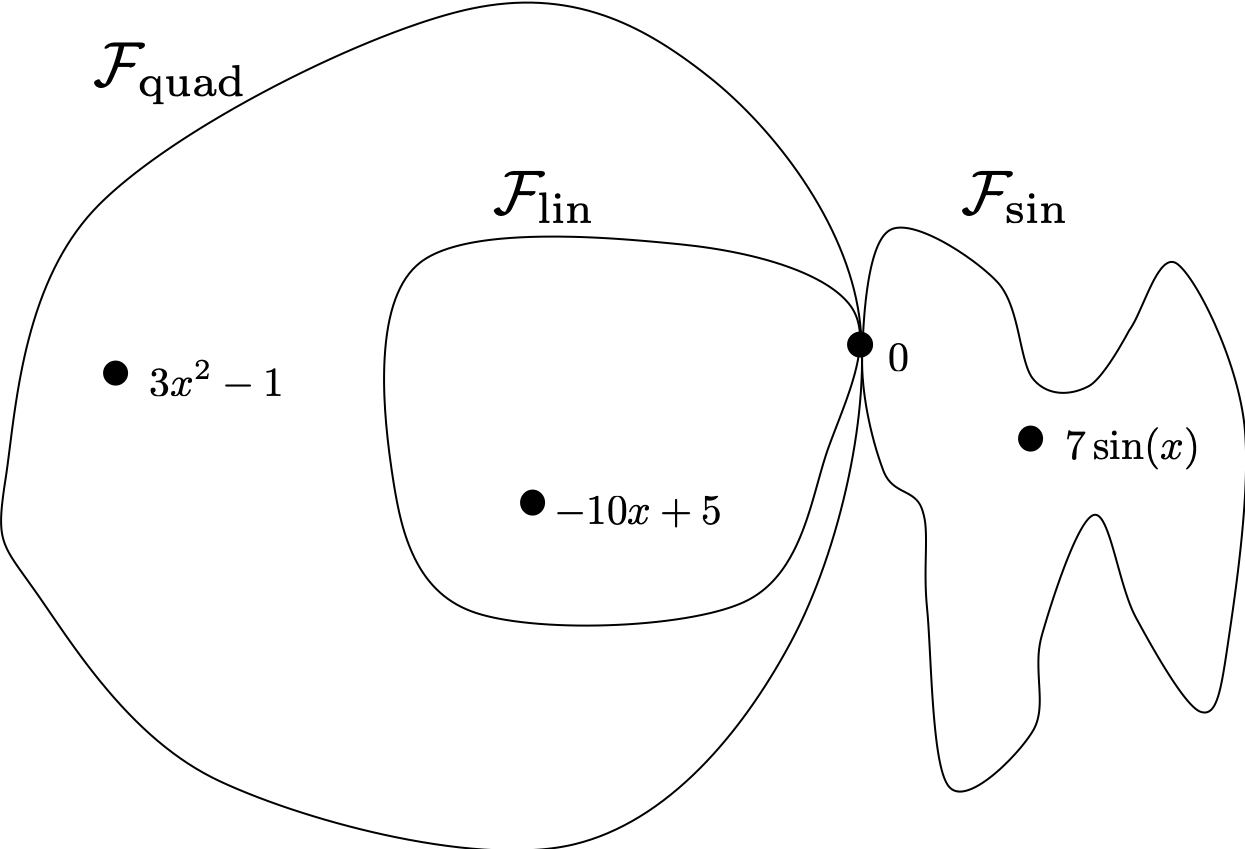
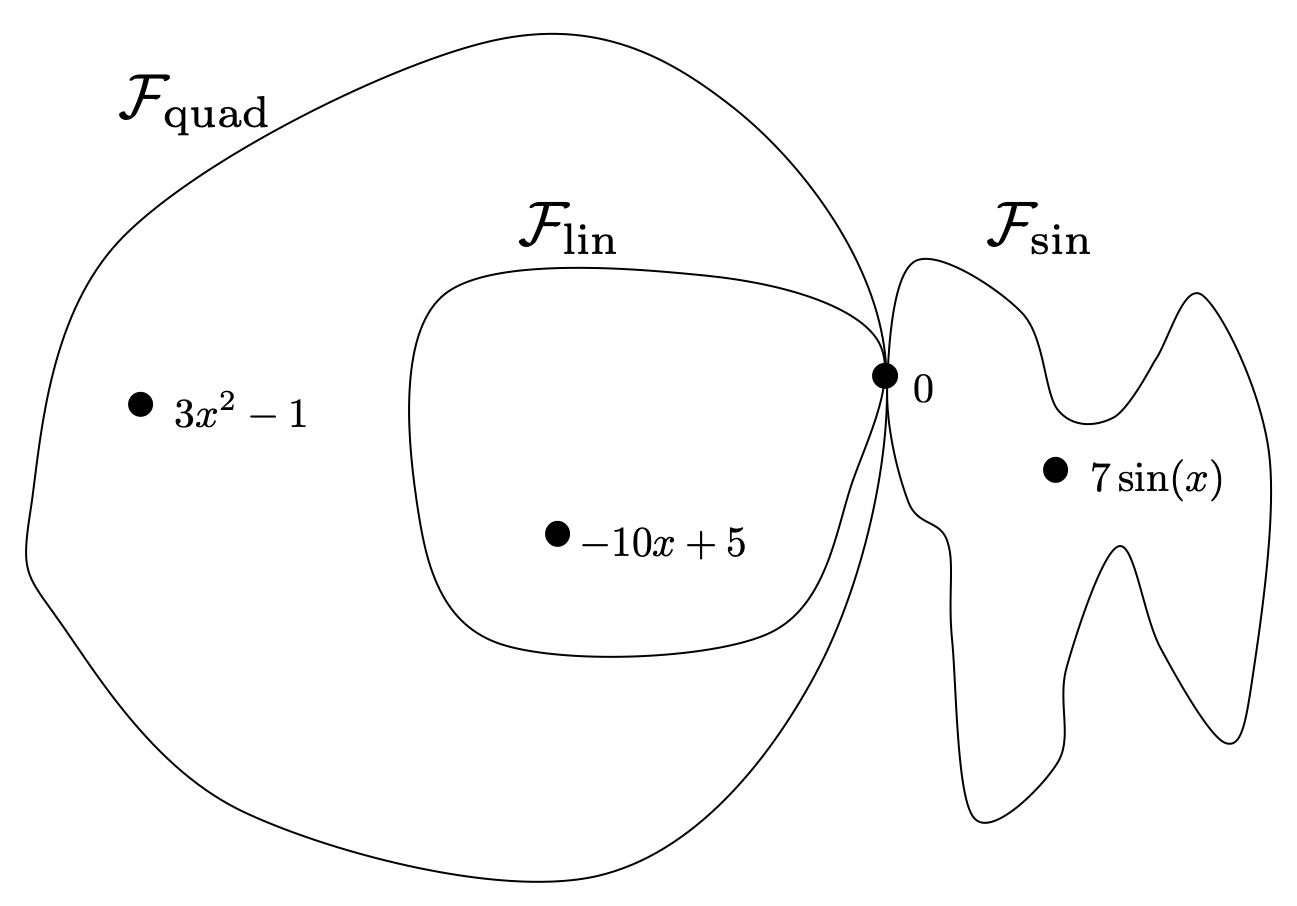
mod space pic

diff --git a/_build/model-eval/model-eval.html b/_build/model-eval/model-eval.html
@@ -11,7 +11,7 @@ prev_page:
 next_page:
   url: 
 suffix: .ipynb
-search: f mathcal error model data training test s generalization e y dagger x set our hat fit t br possible using not well evaluation because metric n future function space its estimate mathbb models since also point size tr lets random png same src width best better only errors get between gen much distance m why loss likely performance average linear good where smaller around want any code instead problem observed even evaluate problems case sum happens points tdimg td k actually isnt regression think used cross just frac cant thats approximation px sets distribution functions generating end dont less
+search: f mathcal error model data training test s e generalization y x dagger our set hat fit not t br possible using well evaluation because models metric function n space future its since also point estimate mathbb size tr lets only random png same between linear src width best better errors get gen much distance m any why loss likely performance average text good where smaller around want code instead problem observed even evaluate problems case just sum happens points tdimg td k actually isnt regression think used cross frac yi cant thats approximation px sets distribution functions generating end
 
 comment: "***PROGRAMMATICALLY GENERATED, DO NOT EDIT. SEE ORIGINAL FILES IN /content***"
 ---
@@ -2154,7 +2154,8 @@ Let's say we generate a training and test set from this data-generating process,
 <div class="text_cell_render border-box-sizing rendered_html">
 <p>Besides the relative sizes of the training and test sets, we also have control over one very important thing: the model space we choose to use!</p>
 <p>The model space, as you may recall, is the space of functions that we consider "elligible" to be our model. For instance, we may decide that we only want to consider <em>linear</em> models, which is the choice we're making when we opt to do linear regression. Why would we ever hobble ourselves in this way? Well, because we have to search that space of models if we want to find the model within it that best fits the data, and searching through the space of all possible functions $\mathbb F$ just isn't possible.</p>
-<p>So we're stuck working with <em>some</em> model space, but clearly there are different kinds of model spaces we can choose. For instance, instead of linear models like $\hat y_i = bx_i + a$, we could consider quadratic models of the form $\hat y_i = cx_i^2 + bx_i + a$, or perhaps sinusoidal models like $a\sin(bx)$. Let's call these spaces $\mathcal F_{lin}$, $\mathcal F_{quad}$, and $\mathcal F_{sin}$, respectively. How do these spaces relate to each other?</p>
+<p>So we're stuck working with <em>some</em> model space, but clearly there are different kinds of model spaces we can choose. For instance, instead of linear models like $\hat y_i = bx_i + a$, we could consider quadratic models of the form $\hat y_i = cx_i^2 + bx_i + a$, or perhaps sinusoidal models like $\alpha\sin(\beta x)$. Let's call these spaces $\mathcal F_{\text{lin}}$, $\mathcal F_{\text{quad}}$, and $\mathcal F_{\text{sin}}$, respectively. How do these spaces relate to each other?</p>
+<p>Any linear model $\hat y_i = bx_i + a$ is also a quadratic model: $\hat y_i = 0x^2 + bx_i + a$. That means that $\mathcal F_{\text{lin}} \subset \mathcal F_{\text{quad}}$ (linear models are a subset of quadratic models). The subsettting is strict since there are some quadratic models, e.g. $x^2$ which are not linear models. What about the relationship between sinusoidal and quadratic models? Given a sinusoidal function $\alpha\sin(\beta x)$, the only parameters $(\alpha, \beta)$ and $(a,b,c)$ for which $\alpha\sin(\beta x) = cx^2 + bx_i + a$ are when all the parameters are 0. Thus the only point of intersection between $\mathcal F_{\text{quad}}$ and $\mathcal F_{\text{sin}}$ is $f(x) = 0$. This is also a point inside of $\mathcal F_{\text{lin}}$ since $0 = 0x + 0$. So overall our picture looks something like:</p>
 
 </div>
 </div>
@@ -2166,6 +2167,17 @@ Let's say we generate a training and test set from this data-generating process,
 <div class="cell border-box-sizing text_cell rendered"><div class="inner_cell">
 <div class="text_cell_render border-box-sizing rendered_html">
 <p><img src='mod-spaces.png' width=300></p>
+
+</div>
+</div>
+</div>
+</div>
+
+<div class="jb_cell tag_popout">
+
+<div class="cell border-box-sizing text_cell rendered"><div class="inner_cell">
+<div class="text_cell_render border-box-sizing rendered_html">
+<p>The exact shapes of these different model spaces as I've drawn them are not reflective of any particular properties of the space. They're just squiggles.</p>
 
 </div>
 </div>

diff --git a/docs/model-eval/model-eval.html b/docs/model-eval/model-eval.html
@@ -26,8 +26,8 @@
   "@type": "NewsArticle",
   "mainEntityOfPage": "https://alejandroschuler.github.io/CSL/model-eval/model-eval.html",
   "headline": "Model Evaluation",
-  "datePublished": "2020-03-04T11:36:05-08:00",
-  "dateModified": "2020-03-04T11:36:05-08:00",
+  "datePublished": "2020-03-04T12:56:40-08:00",
+  "dateModified": "2020-03-04T12:56:40-08:00",
   "description": "        Model Evaluation    At the end of the day, we're looking for a model that will help us predict accurately in the future. So the best way to evaluate ...",
   "author": {
     "@type": "Person",
@@ -2920,7 +2920,8 @@ Let's say we generate a training and test set from this data-generating process,
 <div class="text_cell_render border-box-sizing rendered_html">
 <p>Besides the relative sizes of the training and test sets, we also have control over one very important thing: the model space we choose to use!</p>
 <p>The model space, as you may recall, is the space of functions that we consider "elligible" to be our model. For instance, we may decide that we only want to consider <em>linear</em> models, which is the choice we're making when we opt to do linear regression. Why would we ever hobble ourselves in this way? Well, because we have to search that space of models if we want to find the model within it that best fits the data, and searching through the space of all possible functions $\mathbb F$ just isn't possible.</p>
-<p>So we're stuck working with <em>some</em> model space, but clearly there are different kinds of model spaces we can choose. For instance, instead of linear models like $\hat y_i = bx_i + a$, we could consider quadratic models of the form $\hat y_i = cx_i^2 + bx_i + a$, or perhaps sinusoidal models like $a\sin(bx)$. Let's call these spaces $\mathcal F_{lin}$, $\mathcal F_{quad}$, and $\mathcal F_{sin}$, respectively. How do these spaces relate to each other?</p>
+<p>So we're stuck working with <em>some</em> model space, but clearly there are different kinds of model spaces we can choose. For instance, instead of linear models like $\hat y_i = bx_i + a$, we could consider quadratic models of the form $\hat y_i = cx_i^2 + bx_i + a$, or perhaps sinusoidal models like $\alpha\sin(\beta x)$. Let's call these spaces $\mathcal F_{\text{lin}}$, $\mathcal F_{\text{quad}}$, and $\mathcal F_{\text{sin}}$, respectively. How do these spaces relate to each other?</p>
+<p>Any linear model $\hat y_i = bx_i + a$ is also a quadratic model: $\hat y_i = 0x^2 + bx_i + a$. That means that $\mathcal F_{\text{lin}} \subset \mathcal F_{\text{quad}}$ (linear models are a subset of quadratic models). The subsettting is strict since there are some quadratic models, e.g. $x^2$ which are not linear models. What about the relationship between sinusoidal and quadratic models? Given a sinusoidal function $\alpha\sin(\beta x)$, the only parameters $(\alpha, \beta)$ and $(a,b,c)$ for which $\alpha\sin(\beta x) = cx^2 + bx_i + a$ are when all the parameters are 0. Thus the only point of intersection between $\mathcal F_{\text{quad}}$ and $\mathcal F_{\text{sin}}$ is $f(x) = 0$. This is also a point inside of $\mathcal F_{\text{lin}}$ since $0 = 0x + 0$. So overall our picture looks something like:</p>
 
 </div>
 </div>
@@ -2932,6 +2933,17 @@ Let's say we generate a training and test set from this data-generating process,
 <div class="cell border-box-sizing text_cell rendered"><div class="inner_cell">
 <div class="text_cell_render border-box-sizing rendered_html">
 <p><img src='mod-spaces.png' width=300></p>
+
+</div>
+</div>
+</div>
+</div>
+
+<div class="jb_cell tag_popout">
+
+<div class="cell border-box-sizing text_cell rendered"><div class="inner_cell">
+<div class="text_cell_render border-box-sizing rendered_html">
+<p>The exact shapes of these different model spaces as I've drawn them are not reflective of any particular properties of the space. They're just squiggles.</p>
 
 </div>
 </div>

diff --git a/docs/search.html b/docs/search.html
@@ -26,8 +26,8 @@
   "@type": "NewsArticle",
   "mainEntityOfPage": "https://alejandroschuler.github.io/CSL/search",
   "headline": "Search the site",
-  "datePublished": "2020-03-04T11:36:05-08:00",
-  "dateModified": "2020-03-04T11:36:05-08:00",
+  "datePublished": "2020-03-04T12:56:40-08:00",
+  "dateModified": "2020-03-04T12:56:40-08:00",
   "description": "        ",
   "author": {
     "@type": "Person",
@@ -831,7 +831,7 @@ initFunction(initPrint)
         "teaser":null},{
         "title": "Model Evaluation",
         
-        "excerpt": "f mathcal error model data training test s generalization e y dagger x set our hat fit t br possible using not well evaluation because metric n future function space its estimate mathbb models since also point size tr lets random png same src width best better only errors get between gen much distance m why loss likely performance average linear good where smaller around want any code instead problem observed even evaluate problems case sum happens points tdimg td k actually isnt regression think used cross just frac cant thats approximation px sets distribution functions generating end dont less",
+        "excerpt": "f mathcal error model data training test s e generalization y x dagger our set hat fit not t br possible using well evaluation because models metric function n space future its since also point estimate mathbb size tr lets only random png same between linear src width best better errors get gen much distance m any why loss likely performance average text good where smaller around want code instead problem observed even evaluate problems case just sum happens points tdimg td k actually isnt regression think used cross frac yi cant thats approximation px sets distribution functions generating end",
         "categories": [],
         "tags": [],
         "url": "https://alejandroschuler.github.io/CSL/model-eval/model-eval.html",

diff --git a/docs/linreg-dl-torch/intro.html b/docs/linreg-dl-torch/intro.html
@@ -26,8 +26,8 @@
   "@type": "NewsArticle",
   "mainEntityOfPage": "https://alejandroschuler.github.io/CSL/linreg-dl-torch/intro.html",
   "headline": "From Linear Regression to Deep Learning in Pytorch",
-  "datePublished": "2020-03-04T11:36:05-08:00",
-  "dateModified": "2020-03-04T11:36:05-08:00",
+  "datePublished": "2020-03-04T12:56:40-08:00",
+  "dateModified": "2020-03-04T12:56:40-08:00",
   "description": "        From Linear Regression to Deep Learning in Pytorch    In this chapter we'll see how to build supervised learning models of seemingly arbitrary comple...",
   "author": {
     "@type": "Person",

diff --git a/docs/grad-descent/grad-descent.html b/docs/grad-descent/grad-descent.html
@@ -26,8 +26,8 @@
   "@type": "NewsArticle",
   "mainEntityOfPage": "https://alejandroschuler.github.io/CSL/grad-descent/grad-descent.html",
   "headline": "Fitting Models with Gradient Descent",
-  "datePublished": "2020-03-04T11:36:05-08:00",
-  "dateModified": "2020-03-04T11:36:05-08:00",
+  "datePublished": "2020-03-04T12:56:40-08:00",
+  "dateModified": "2020-03-04T12:56:40-08:00",
   "description": "        Fitting Models with Gradient Descent    Gradient descent and its cousins are the core of many machine learning methods. Building a predictive model b...",
   "author": {
     "@type": "Person",

diff --git a/docs/probability/3_distribution_properties.html b/docs/probability/3_distribution_properties.html
@@ -26,8 +26,8 @@
   "@type": "NewsArticle",
   "mainEntityOfPage": "https://alejandroschuler.github.io/CSL/probability/3_distribution_properties.html",
   "headline": "Distribution Properties",
-  "datePublished": "2020-03-04T11:36:05-08:00",
-  "dateModified": "2020-03-04T11:36:05-08:00",
+  "datePublished": "2020-03-04T12:56:40-08:00",
+  "dateModified": "2020-03-04T12:56:40-08:00",
   "description": "        Distribution Properties        import randomimport numpy as npimport altair as alt import pandas as pdfrom itertools import product        def densit...",
   "author": {
     "@type": "Person",

diff --git a/docs/linreg-dl-torch/abstracting-layers.html b/docs/linreg-dl-torch/abstracting-layers.html
@@ -26,8 +26,8 @@
   "@type": "NewsArticle",
   "mainEntityOfPage": "https://alejandroschuler.github.io/CSL/linreg-dl-torch/abstracting-layers.html",
   "headline": "Abstracting our Code",
-  "datePublished": "2020-03-04T11:36:05-08:00",
-  "dateModified": "2020-03-04T11:36:05-08:00",
+  "datePublished": "2020-03-04T12:56:40-08:00",
+  "dateModified": "2020-03-04T12:56:40-08:00",
   "description": "        Abstracting our Code        import torchimport pandas as pdimport altair as altfrom torchviz import make_dot    Since we'll be stacking layers of arb...",
   "author": {
     "@type": "Person",

diff --git a/docs/linreg-dl-torch/linear-reg-complex.html b/docs/linreg-dl-torch/linear-reg-complex.html
@@ -26,8 +26,8 @@
   "@type": "NewsArticle",
   "mainEntityOfPage": "https://alejandroschuler.github.io/CSL/linreg-dl-torch/linear-reg-complex.html",
   "headline": "Adding Complexity",
-  "datePublished": "2020-03-04T11:36:05-08:00",
-  "dateModified": "2020-03-04T11:36:05-08:00",
+  "datePublished": "2020-03-04T12:56:40-08:00",
+  "dateModified": "2020-03-04T12:56:40-08:00",
   "description": "        Adding Complexity        import torchimport pandas as pdimport altair as altfrom torchviz import make_dot    Let's go back to our regression example....",
   "author": {
     "@type": "Person",

diff --git a/docs/probability/2_multivariate_prob.html b/docs/probability/2_multivariate_prob.html
@@ -26,8 +26,8 @@
   "@type": "NewsArticle",
   "mainEntityOfPage": "https://alejandroschuler.github.io/CSL/probability/2_multivariate_prob.html",
   "headline": "Multivariate Prob",
-  "datePublished": "2020-03-04T11:36:05-08:00",
-  "dateModified": "2020-03-04T11:36:05-08:00",
+  "datePublished": "2020-03-04T12:56:40-08:00",
+  "dateModified": "2020-03-04T12:56:40-08:00",
   "description": "        Multivariate Prob        import randomimport numpy as npimport altair as alt import pandas as pd     Multivariate Probability Until now, we've only d...",
   "author": {
     "@type": "Person",

diff --git a/docs/linreg-dl-torch/logistic-reg.html b/docs/linreg-dl-torch/logistic-reg.html
@@ -26,8 +26,8 @@
   "@type": "NewsArticle",
   "mainEntityOfPage": "https://alejandroschuler.github.io/CSL/linreg-dl-torch/logistic-reg.html",
   "headline": "Logistic Regression",
-  "datePublished": "2020-03-04T11:36:05-08:00",
-  "dateModified": "2020-03-04T11:36:05-08:00",
+  "datePublished": "2020-03-04T12:56:40-08:00",
+  "dateModified": "2020-03-04T12:56:40-08:00",
   "description": "        Logistic Regression        import torchimport pandas as pdimport altair as altfrom torchviz import make_dot    Now that we've seen how this works for...",
   "author": {
     "@type": "Person",

diff --git a/docs/probability/1_univariate_prob.html b/docs/probability/1_univariate_prob.html
@@ -26,8 +26,8 @@
   "@type": "NewsArticle",
   "mainEntityOfPage": "https://alejandroschuler.github.io/CSL/probability/1_univariate_prob.html",
   "headline": "Univariate Prob",
-  "datePublished": "2020-03-04T11:36:05-08:00",
-  "dateModified": "2020-03-04T11:36:05-08:00",
+  "datePublished": "2020-03-04T12:56:40-08:00",
+  "dateModified": "2020-03-04T12:56:40-08:00",
   "description": "        Univariate Prob        import numpy as np    Univariate Probability In the example above, we demonstrated some code that generates fake data $X$ and ...",
   "author": {
     "@type": "Person",

diff --git a/docs/linreg-dl-torch/linear-reg.html b/docs/linreg-dl-torch/linear-reg.html
@@ -26,8 +26,8 @@
   "@type": "NewsArticle",
   "mainEntityOfPage": "https://alejandroschuler.github.io/CSL/linreg-dl-torch/linear-reg.html",
   "headline": "Linear Regression",
-  "datePublished": "2020-03-04T11:36:05-08:00",
-  "dateModified": "2020-03-04T11:36:05-08:00",
+  "datePublished": "2020-03-04T12:56:40-08:00",
+  "dateModified": "2020-03-04T12:56:40-08:00",
   "description": "        Linear Regression    Let's implement a simple linear regression using torch    import torch    To start with, we'll create some random data and store...",
   "author": {
     "@type": "Person",
